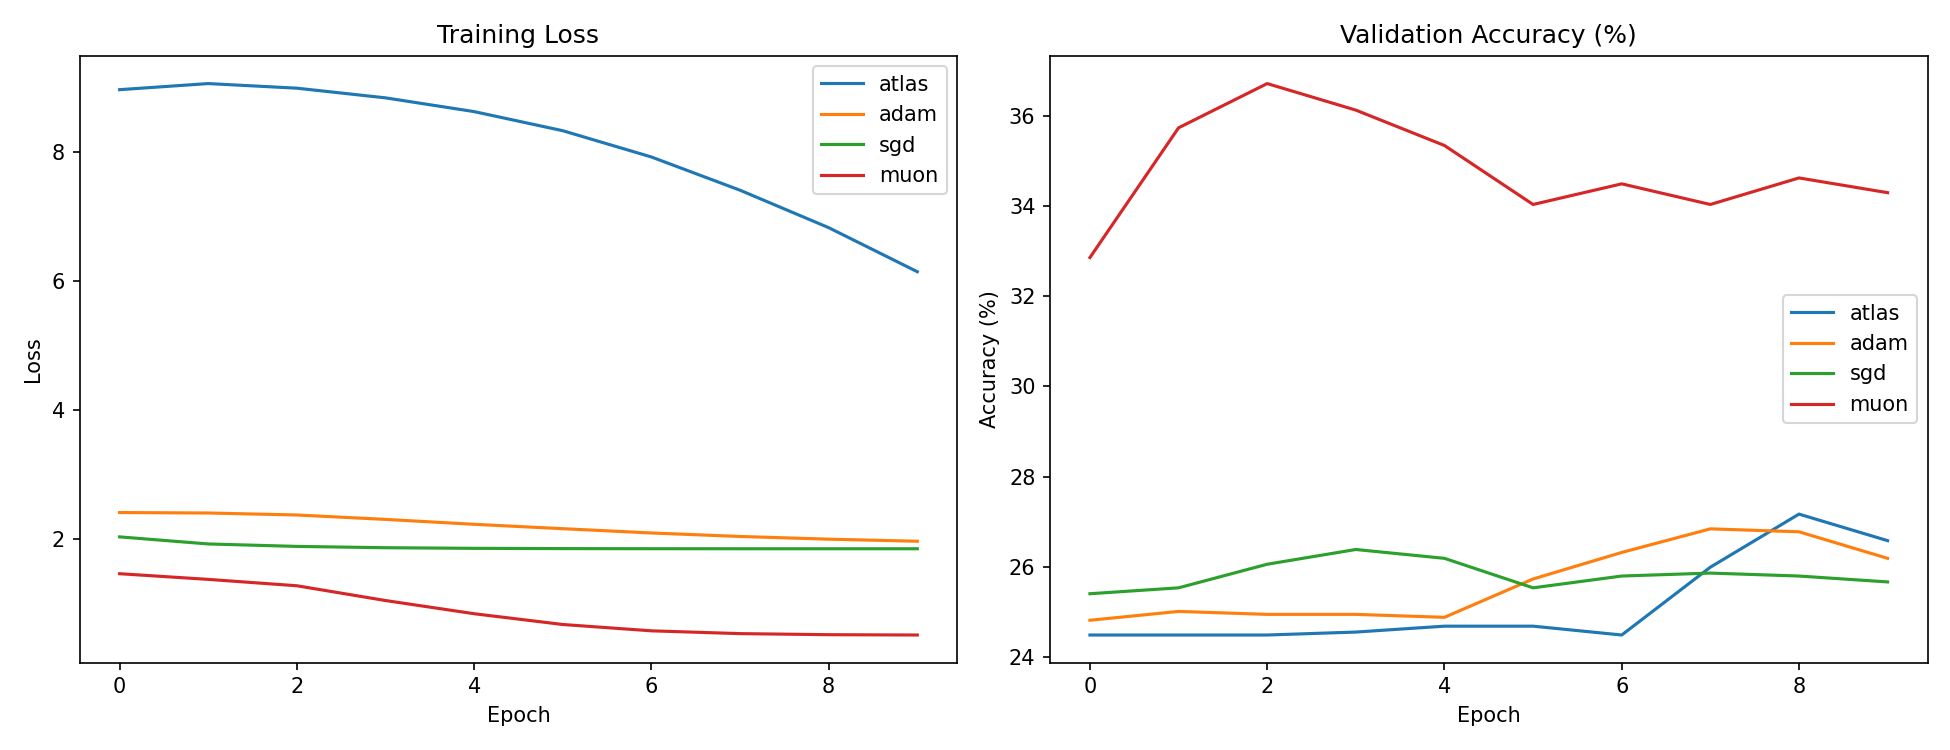
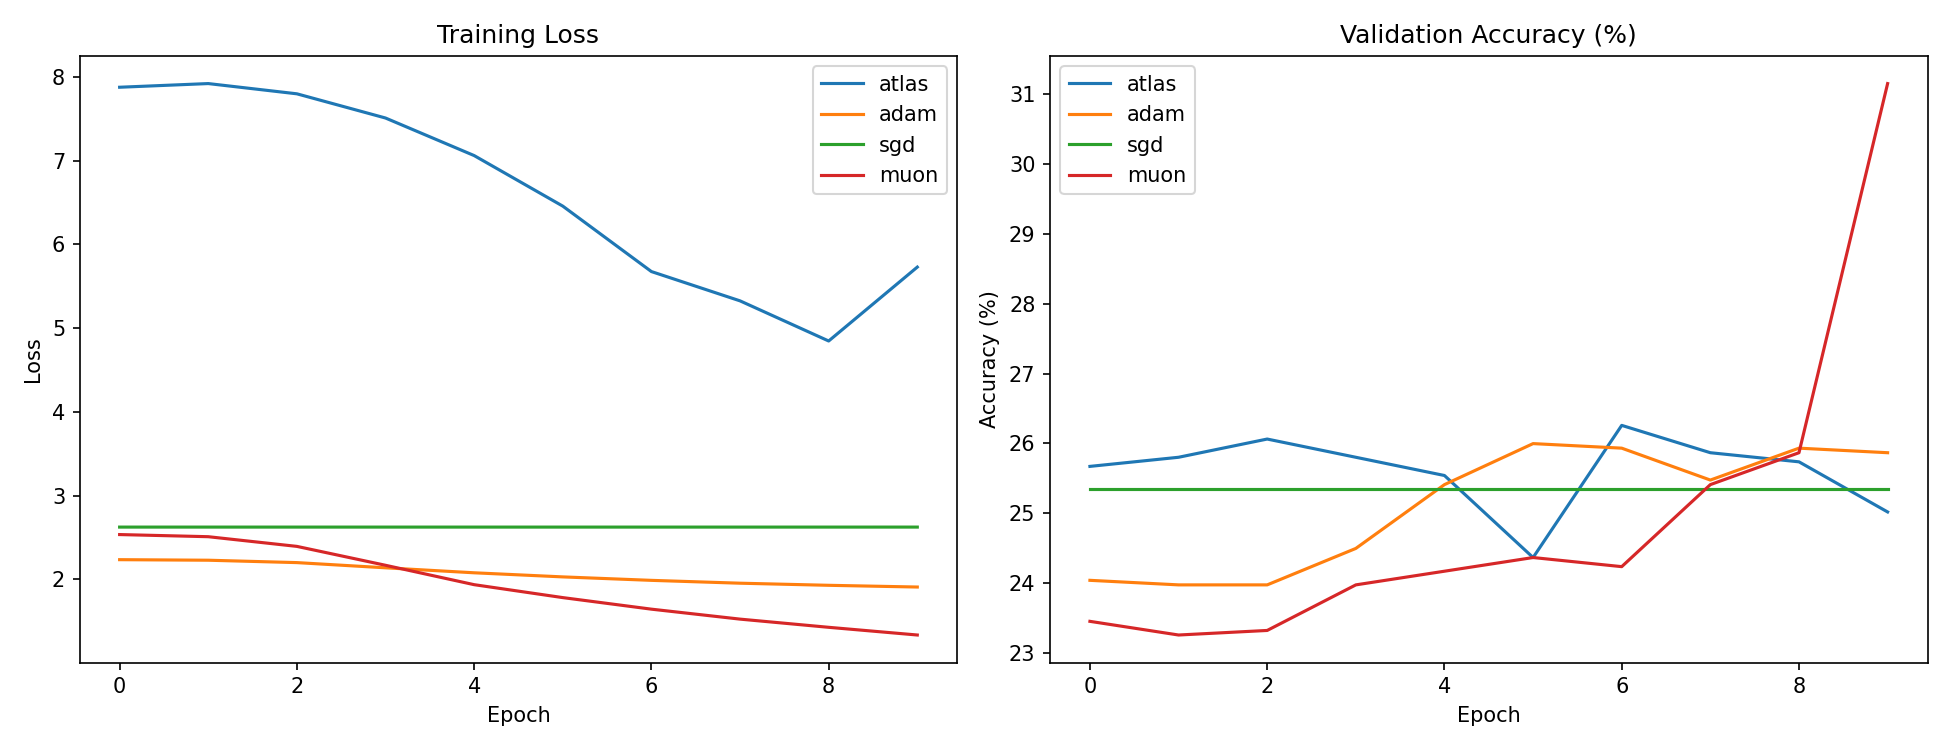
uniform warmup

diff --git a/atlas_opt_newalgo_bygg.py b/atlas_opt_newalgo_bygg.py
@@ -376,7 +376,8 @@ def make_optimizer(name, model, params, epochs=10, steps_per_epoch=None):
     elif name == "sgd":
         momentum = params.get("momentum", 0.9)
         opt = optim.SGD(trainable_params, lr=lr, momentum=momentum, weight_decay=wd)
-        sched = optim.lr_scheduler.CosineAnnealingLR(opt, T_max=epochs)
+        warmup = max(1, steps_per_epoch * 2) if steps_per_epoch else 100
+        sched  = get_cosine_schedule_with_warmup(opt, num_warmup_steps=warmup, num_training_steps=epochs * (steps_per_epoch or 100))
         return opt, sched
 
     elif name == "muon":
@@ -391,7 +392,9 @@ def make_optimizer(name, model, params, epochs=10, steps_per_epoch=None):
         adam_groups = [dict(params=adam_params, lr=3e-4, use_muon=False)]
         muon_group = dict(params=muon_params, lr=lr, weight_decay=wd, use_muon=True)
         opt = MuonWithAuxAdam([*adam_groups, muon_group])
-        return opt, optim.lr_scheduler.CosineAnnealingLR(opt, T_max=epochs)
+        warmup = max(1, steps_per_epoch * 2) if steps_per_epoch else 100
+        sched  = get_cosine_schedule_with_warmup(opt, num_warmup_steps=warmup, num_training_steps=epochs * (steps_per_epoch or 100))
+        return opt, sched
 
     elif name in ["hybrid", "atlas"]:
         muon_params = []
